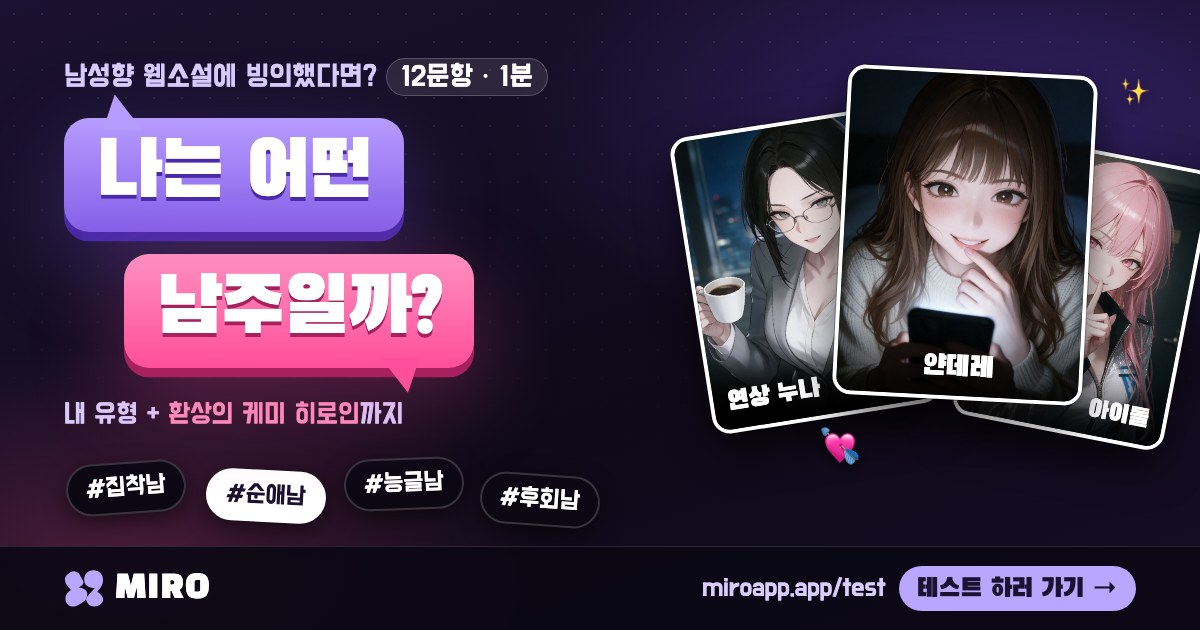
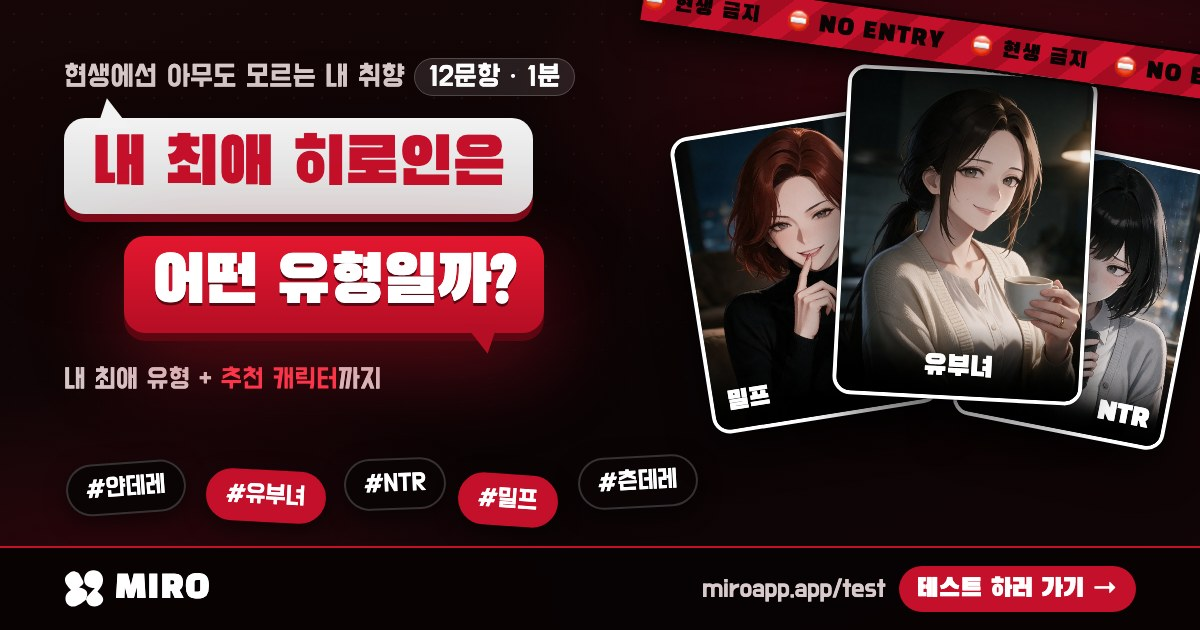
테스트 교체: 남주 유형 → '현생에선 아무도 모르는 내 취향' 최애 히로인 16유형(유부녀·밀프·NTR·NTL 추가, 결과 그림 4장), 미리보기 사진 빨간 금지 테마

diff --git a/apps/web/lib/quiz.ts b/apps/web/lib/quiz.ts
@@ -1,45 +1,50 @@
 /**
- * 성향 테스트(11/13, 홍보용) — "내가 남성향 웹소설에 빙의했다면? 나는 어떤 남주일까".
- * 위프의 BL 공수 테스트(whif.io/game/bltest)와 같은 짜임: 눈에 그려지는 상황 질문 → 나의 남주 유형 → 환상의 케미(히로인 유형)와 작품.
- * 질문 12개·유형 12종. 열두 유형이 선택지에 네 번씩 나와 어느 유형도 유리하지 않다(테스트로 지킨다).
- * 질문마다 그 상황을 그린 그림이 있다(public/quiz/q<번호>.jpg, 힉스필드에 작품 사진을 참조로 넣어 같은 그림체로).
- * 질문·설명은 작품 내용이 아니라 내 행동을 묻는다. 작품은 결과에서 추천만 한다.
+ * 취향 테스트(11/13, 홍보용) — "현생에선 아무도 모르는 내 취향, 내 최애 히로인은 어떤 유형일까?"
+ * 11/13 사용자: 남주 유형 테스트를 이걸로 바꿈 — 화면(CSS)은 그대로, 내용만 '내가 좋아하는 여자 취향'. 미로 정체성: 현생에선 말 못 할 취향을 여기서.
+ * 질문 12개·히로인 유형 16종(11/13 사용자: 유부녀·밀프·NTR·NTL 추가). 열여섯 유형이 선택지에 세 번씩 나와 어느 유형도 유리하지 않다(테스트로 지킨다).
+ * 질문마다 그 상황을 그린 그림이 있다(public/quiz/q<번호>.jpg) — 그림 속 그녀의 어떤 반응이 끌리는지 고른다.
+ * 결과 그림은 public/quiz/<유형>.jpg(유형 글자는 예전 테스트 그대로라 파일 이름이 같다). 작품은 결과에서 추천만 한다.
  */
-export const TYPES = ['j', 'n', 'z', 'h', 'c', 'd', 'g', 'm', 'k', 's', 'o', 'b'] as const
+export const TYPES = ['j', 'n', 'z', 'h', 'c', 'd', 'g', 'm', 'k', 's', 'o', 'b', 'y', 'f', 'r', 'l'] as const
 export type TypeKey = (typeof TYPES)[number]
 export type Question = { id: number; q: string; a: Array<[TypeKey, string]> }
 
 export const QUESTIONS: Question[] = [
-  { id: 1, q: '썸녀가 "오늘 좀 늦을 것 같아"라고 보냈다.', a: [['j', '"천천히 와. 기다릴게." 근처 카페에서 두 시간을 기다린다.'], ['z', '"누구랑 있는데?" 일단 위치부터 묻는다.'], ['h', '"그래." 한 글자 보내 놓고, 밤새 그 말투를 후회한다.'], ['k', '늦을 줄 알았다. 예약을 처음부터 30분 뒤로 잡아 뒀다.']] },
-  { id: 2, q: '처음 본 여자가 번호를 물어본다.', a: [['c', '"죄송합니다." 이유는 말하지 않고 지나간다.'], ['d', '"번호 말고 지금 커피는 어때요?" 그 자리에서 약속을 잡는다.'], ['m', '"길 물어보시는 거죠?" 지도 앱을 켠다.'], ['o', '"저, 저요…?" 폰을 꺼내다가 떨어뜨린다.']] },
-  { id: 3, q: '그녀가 "나 살쪘지?"라고 묻는다.', a: [['j', '"아니. 어제도 오늘도 예뻐." 진심으로 답한다.'], ['n', '"응, 볼살이. 그래서 더 귀여운데?" 볼을 찌른다.'], ['d', '"그럼 같이 운동 갈까? 지금." 운동화를 신는다.'], ['s', '"그런 거 신경 쓰지 마. 고기 먹으러 가자." 손목을 잡고 나간다.']] },
-  { id: 4, q: '그녀의 폰에 남자 이름으로 알림이 떴다.', a: [['z', '이름을 외운다. 그날 밤 그 사람 SNS를 끝까지 내려 본다.'], ['g', '"친구겠지." 믿고 넘어간다. 친구가 아니었다.'], ['m', '"택배 왔나 보다." 알림 내용을 못 봤다.'], ['b', '못 본 척한다. 대신 그날 밤 그녀의 연락을 안 받는다.']] },
-  { id: 5, q: '그녀가 헤어지자고 한다.', a: [['j', '"이유는 묻지 않을게. 그래도 기다릴게."'], ['d', '"싫어. 다시 반하게 만들 거야." 다음 날 꽃을 들고 간다.'], ['g', '"내가 다 잘못했어." 뭘 잘못했는지는 모른다.'], ['b', '"그래. 잘 지내." 붙잡지 않는다. 사흘 뒤 프로필 사진을 바꾼다.']] },
-  { id: 6, q: '술자리에서 그녀가 내 어깨에 기댄다.', a: [['n', '"어깨 대여료 비싼데." 잔을 채워 준다.'], ['c', '조용히 자세를 고쳐 앉는다. 어깨가 빠진다.'], ['s', '말없이 겉옷을 벗어 덮어 준다.'], ['o', '굳는다. 숨도 크게 못 쉬고 한 시간을 버틴다.']] },
-  { id: 7, q: '기념일을 까먹었다.', a: [['j', '그럴 리가 없다. 석 달 전부터 달력에 표시해 뒀다.'], ['h', '밤 11시에 알았다. 편의점 케이크를 들고 뛰어간다.'], ['d', '"오늘부터 다시 세자. 오늘이 1일." 당당하게 선언한다.'], ['k', '까먹은 척했다. 서프라이즈는 두 달 전부터 준비해 뒀다.']] },
-  { id: 8, q: '그녀가 다른 남자 칭찬을 한다.', a: [['z', '그 남자 이름을 기억해 둔다.'], ['c', '"그렇구나." 다음 화제로 넘어간다.'], ['g', '"좋은 사람이네. 소개해 줄까?" 진심이다.'], ['s', '"그래? 나는 어떤데." 똑바로 쳐다본다.']] },
-  { id: 9, q: '그녀가 아프다고 한다.', a: [['n', '"간호사 필요해? 출장비는 비싼데."'], ['h', '바쁘다고 답장을 미뤘다. 새벽에 달려간다.'], ['k', '증상을 듣고 맞는 약과 문 연 병원을 정리해 보낸다.'], ['o', '약국 앞에서 뭘 사야 할지 몰라 삼십 분을 서 있는다.']] },
-  { id: 10, q: '그녀가 "우리 무슨 사이야?"라고 묻는다.', a: [['n', '"글쎄. 네가 정해. 난 다 좋아."'], ['z', '"내 거." 고민 없이 답한다.'], ['c', '"…아는 사이." 귀가 빨갛다.'], ['g', '"좋은 오빠?" 스스로 관에 들어간다.']] },
-  { id: 11, q: '비 오는 날, 우산이 하나다.', a: [['m', '"편의점에서 하나 더 사 올게." 뛰어간다.'], ['s', '겉옷을 벗어 둘의 머리 위로 든다. "뛰어."'], ['k', '일기예보는 봤다. 우산을 일부러 하나만 챙겼다.'], ['b', '우산은 내가 쓴다. "같이 쓰고 싶으면 붙어."']] },
-  { id: 12, q: '그녀가 운다.', a: [['m', '"꽃가루 알레르기야?" 약국에 다녀온다.'], ['h', '울린 게 나라는 걸 뒤늦게 깨닫는다.'], ['o', '같이 운다. 이유는 모른다.'], ['b', '"울지 마. 나 나쁜 놈 되잖아." 머리에 손을 얹는다.']] },
+  { id: 1, q: '약속에 늦는 그녀. 어떤 문자가 오면 설레?', a: [['j', '"늦어. 기다리든가." 마침표까지 찍은 한 줄.'], ['z', '"늦어서 미안해… 기다리는 동안 다른 여자 안 봤지?"'], ['h', '"야 나 늦음ㅋㅋ 너 좋아하는 붕어빵 사 갈게."'], ['r', '"미안, 늦어… 선배가 데려다준다고 해서."']] },
+  { id: 2, q: '처음 본 그녀가 폰을 내민다. 끌리는 쪽은?', a: [['c', '"번호 줘요. 오늘 안 주면 내일 또 올 거예요."'], ['f', '"어머, 아들 친구 아니니? 아줌마 번호 저장해 둬."'], ['m', '뒤에서 친구 셋이 동시에 폰을 내민다. "우리 중에 누구 번호 받을래?"'], ['o', '"번호 말고… 오늘 밤 꿈에서 만날래?"']] },
+  { id: 3, q: '그녀가 거울 앞에서 "나 살쪘지?" 한다.', a: [['y', '"남편은 이런 거 물어봐도 대답도 안 해. …너는 솔직하게 말해 줄래?"'], ['n', '"흥, 너 때문에 찐 거니까 책임져!"'], ['d', '"그럼 누나랑 같이 야식 끊자. …내일부터."'], ['s', '"살찐 건 내가 아니라 네 눈이야. 일이나 해."']] },
+  { id: 4, q: '내 폰에 다른 여자 이름이 떴다. 그녀의 반응은?', a: [['z', '조용히 그 번호를 차단하고 웃는다. "이제 됐다."'], ['l', '"나도 남친 있으니까 뭐라 할 처지는 아니지. …그래도 기분 나빠."'], ['m', '그 이름이 그녀의 친구였다. 다음 날 둘이 같이 찾아온다.'], ['b', '"질투? 내가 왜. …근데 나보다 예뻐?"']] },
+  { id: 5, q: '그녀가 헤어지자고 한다. 제일 못 잊을 그녀는?', a: [['j', '"헤어지자." 뒤돌아 가다가, 세 걸음 만에 멈춘다.'], ['d', '"넌 아직 어려. 더 좋은 사람 만나." 내 눈가를 닦아 준다.'], ['g', '"헤어지자는 말은 내가 해. 넌 못 가."'], ['r', '"미안… 다른 사람이 생겼어. 근데 가끔 연락해도 돼?"']] },
+  { id: 6, q: '술자리에서 그녀가 내 어깨에 기댄다.', a: [['n', '"취한 거 아니거든! …어깨 좀 빌려 달라는 거지."'], ['c', '"나 안 취했어. 그러니까 지금 말 진심이야. 좋아해."'], ['y', '"남편한테는 친구 만난다고 했어. …조금만 이러고 있자."'], ['o', '"취한 척한 거 몰랐지? …이제 도망 못 가."']] },
+  { id: 7, q: '기념일을 깜빡했다. 그녀의 반응은?', a: [['j', '일주일째 읽씹. 마지막에 온 문자: "…기억 못 했어?"'], ['f', '"그런 걸 다 챙기려고 했어? 기특하네. 이리 와, 아줌마가 맛있는 거 해 줄게."'], ['d', '"괜찮아. 누나는 매일이 기념일이야." 선물을 내민다.'], ['k', '"맹세한 날을 잊다니… 결투를 신청한다."']] },
+  { id: 8, q: '그녀가 다른 남자 사진을 보여 주며 칭찬한다.', a: [['z', '"이 남자? 너 질투하라고 보여 준 거야. …했어? 했지?"'], ['r', '"요즘 이 사람이랑 자주 만나. …질투 나면 말해. 그만할게."'], ['g', '"잘생겼지? 이따 소개받기로 했어. 꼬우면 붙잡아 보든가."'], ['s', '"이 사람은 일을 잘해. 너도 좀 이렇게 해 봐."']] },
+  { id: 9, q: '그녀가 아프다고 연락이 왔다.', a: [['f', '"아줌마가 죽 끓여 놨어. 넌 누워서 받아먹기만 해."'], ['h', '"열 나… 어릴 때처럼 옆에 있어 줘."'], ['k', '"이 정도 열로 쓰러질 기사가 아니다…" 하고 쓰러진다.'], ['o', '"아파서 힘이 없어… 네 기운 좀 나눠 줄래?"']] },
+  { id: 10, q: '밤 놀이터, 그녀가 "우리 무슨 사이야?" 한다.', a: [['n', '"착각하지 마. 아직 아무 사이도 아니야. …아직."'], ['l', '"남친한테는 비밀인 사이. …그게 싫어?"'], ['c', '"애매한 거 싫어. 오늘부터 1일 하자."'], ['g', '"사귀자는 말은 네가 해. 선배가 먼저 해야 돼?"']] },
+  { id: 11, q: '비 오는 날, 우산이 하나다.', a: [['y', '"남편 우산이라 커. 같이 쓰자. …아무도 안 봐."'], ['s', '"우산 씌워. 내 옷 비싸."'], ['k', '망토를 벗어 내 머리 위로 든다. "그대가 젖는 건 용납 못 한다."'], ['b', '모자를 푹 눌러쓰고 우산 속으로. "사진 찍히면 안 되니까, 더 붙어."']] },
+  { id: 12, q: '그녀가 운다.', a: [['m', '한 명이 울자 셋이 동시에 나를 노려본다. "누가 울렸어?"'], ['h', '"어릴 때 네가 맨날 달래 줬잖아. 오늘도 해 줘."'], ['l', '"남친이랑 싸웠어. …근데 왜 너한테 온 건지 모르겠어."'], ['b', '"무대에선 안 울어. 너 앞에서만 우는 거야."']] },
 ]
 
 const w = (name: string, slug: string) => ({ name, slug: `official-m-${slug}` })
-/** tags = 유형을 설명하는 태그, likes = 이 유형이 끌리는 인기 태그(베이비챗·크랙 남성 인기 랭킹 키워드). chemi = 환상의 케미(히로인 유형 + 그 유형의 작품, 결과 카드의 표지), bad = 파국의 조합, compat = 히로인 유형별 궁합 지수(재미로 보는 수치 — 첫 줄이 환상의 케미, 마지막 줄이 파국의 조합), recs = 더 추천하는 작품. */
+/** title = 히로인 유형, tags = 그 히로인을 설명하는 태그, likes = 이 취향이 끌리는 인기 태그(베이비챗·크랙 남성 인기 랭킹 키워드). chemi = 대표 작품(결과의 '만나러 가기', type 은 title 과 같다), bad = 지뢰(제일 안 맞는 히로인 유형), compat = 히로인 유형별 취향 지수(재미로 보는 수치 — 첫 줄이 최애, 마지막 줄이 지뢰), recs = 더 추천하는 작품. */
 export const RESULTS: Record<TypeKey, { title: string; quote: string; tags: string[]; likes: string[]; desc: string; chemi: { type: string; name: string; slug: string }; bad: string; compat: Array<[string, number]>; recs: Array<{ name: string; slug: string }> }> = {
-  j: { title: '순애남', quote: '"기다릴게. 십 년이든."', tags: ['순애', '일편단심', '첫사랑', '기다림'], likes: ['순애', '소꿉친구', '첫사랑', '구원'], desc: '한 사람만 본다. 느리지만 방향을 바꾼 적이 한 번도 없다. 고백까지 오래 걸리는 대신 한 번 하면 끝까지 간다.', chemi: { type: '얼음공주', ...w('나한테만 차가운 회장님', 'council') }, bad: '서큐버스', compat: [['얼음공주', 96], ['소꿉친구', 88], ['츤데레', 71], ['아이돌', 44], ['서큐버스', 12]], recs: [w('나만 보는 그녀', 'only-me'), w('어렸을 때부터 짝사랑했던 그녀랑 동거', 'crush-roommate')] },
-  n: { title: '능글남', quote: '"나 좋아하지? 다 알아."', tags: ['능글', '여유', '플러팅', '눈웃음'], likes: ['유부녀', 'NTL', '연상', '불륜'], desc: '어떤 상황에서도 농담이 먼저 나온다. 가벼워 보이지만 선은 정확히 안다. 진심은 제일 늦게 꺼낸다.', chemi: { type: '츤데레', ...w('얼음 선배의 속마음이 들린다', 'inner-senior') }, bad: '얀데레', compat: [['츤데레', 95], ['연상 누나', 82], ['얼음공주', 68], ['직진녀', 47], ['얀데레', 14]], recs: [w('서하린', 'idol-girlfriend'), w('강지수', 'elevator-senior')] },
-  z: { title: '집착남', quote: '"어디야. 누구랑."', tags: ['집착', '독점욕', '질투', '내 거'], likes: ['얀데레', '집착', '감금', '피폐'], desc: '좋아하면 전부 알아야 한다. 무겁다는 말을 자주 듣지만, 한 번 잡은 손은 절대 놓지 않는다.', chemi: { type: '얀데레', ...w('나만 보는 그녀', 'only-me') }, bad: '인싸 퀸카', compat: [['얀데레', 97], ['소꿉친구', 74], ['츤데레', 59], ['아이돌', 31], ['인싸 퀸카', 9]], recs: [w('편의점 그녀는 내 시간을 외우고 있다', 'store-girl'), w('백서하', 'gumiho-partner')] },
-  h: { title: '후회남', quote: '"그때 잡았어야 했는데."', tags: ['후회', '재회', '새벽감성', '뒤늦은 깨달음'], likes: ['후회', '전여친', '이혼', '재회'], desc: '있을 때 못 하고 떠난 뒤에 달린다. 늦게 깨닫는 대신, 깨달은 뒤에는 누구보다 절박하다.', chemi: { type: '소꿉친구', ...w('어렸을 때부터 짝사랑했던 그녀랑 동거', 'crush-roommate') }, bad: '철벽녀', compat: [['소꿉친구', 94], ['연상 누나', 79], ['츤데레', 63], ['얼음공주', 40], ['철벽녀', 11]], recs: [w('동창회', 'hero-party'), w('오수아', 'apocalypse-bully')] },
-  c: { title: '철벽남', quote: '"용건만."', tags: ['철벽', '무심', '무뚝뚝', '귀는 빨개짐'], likes: ['혐관', '츤데레', '얼음공주', '동거'], desc: '말수가 적고 틈을 안 준다. 관심 없는 척은 완벽한데 귀가 먼저 배신한다. 무너지면 한 번에 무너진다.', chemi: { type: '직진녀', ...w('나비', 'stray-cat') }, bad: '얼음공주', compat: [['직진녀', 95], ['연상 누나', 77], ['소꿉친구', 66], ['츤데레', 38], ['얼음공주', 13]], recs: [w('한도은', 'han-doeun'), w('류하경', 'ryu-hagyeong')] },
-  d: { title: '직진남', quote: '"좋아해. 됐지?"', tags: ['직진', '댕댕이', '연하남', '0.5초 고백'], likes: ['누나', '여상사', '밀프', '미시'], desc: '재지 않는다. 좋으면 좋다고 하고, 거절당하면 내일 또 간다. 밀당은 할 줄 모르고 당기기만 한다.', chemi: { type: '연상 누나', ...w('강지수', 'elevator-senior') }, bad: '일진', compat: [['연상 누나', 96], ['츤데레', 85], ['얼음공주', 72], ['여상사', 49], ['일진', 15]], recs: [w('한도은', 'han-doeun'), w('별의 운명: 아르덴', 'arden')] },
-  g: { title: '호구남', quote: '"내가 다 잘못했어."', tags: ['호구', '헌신', '굴림', '참교육 예정'], likes: ['NTR', 'BSS', '참교육', '복수'], desc: '다 퍼 주고 다 당한다. 착한 게 죄라면 무기징역이다. 그래서 각성하는 순간이 제일 통쾌한 유형이다.', chemi: { type: '일진 선배', ...w('나를 애완견 취급하던 똥군기 선배들', 'pet-seniors') }, bad: '서큐버스', compat: [['일진 선배', 93], ['여상사', 81], ['츤데레', 58], ['소꿉친구', 45], ['서큐버스', 8]], recs: [w('개싸가지 년 참교육', 'brat-senior'), w('무인도 갱생 퀘스트', 'dawn-call')] },
-  m: { title: '둔감남', quote: '"오늘 무슨 날이야?"', tags: ['둔감', '하렘', '러브코미디', '본인만 모름'], likes: ['하렘', '러브코미디', '아카데미', '여사친'], desc: '모든 신호를 놓친다. 주변은 이미 전쟁 중인데 본인만 평화롭다. 하렘물 주인공의 기본 사양이다.', chemi: { type: '하렘', ...w('문자 요정들', 'fairies') }, bad: '얀데레', compat: [['하렘', 97], ['소꿉친구', 83], ['직진녀', 76], ['츤데레', 52], ['얀데레', 10]], recs: [w('마사지 동아리', 'massage-club'), w('아카데미 최약체 엑스트라', 'academy-extra')] },
-  k: { title: '계략남', quote: '"전부 계획대로야."', tags: ['계략', '두뇌전', '큰 그림', '서프라이즈'], likes: ['아카데미', '빙의', '회귀', '먼치킨'], desc: '우연은 없다. 세 수 앞을 보고 움직이고, 들켜도 그것까지 계획이다. 유일한 변수는 그녀의 한마디다.', chemi: { type: '여기사', ...w('세실리아 아스테른', 'rogue-noble') }, bad: '직진녀', compat: [['여기사', 95], ['얼음공주', 84], ['여상사', 67], ['아이돌', 41], ['직진녀', 16]], recs: [w('아카데미 최약체 엑스트라', 'academy-extra'), w('천마환생', 'cheonma-reborn')] },
-  s: { title: '상남자', quote: '"말이 많다. 따라와."', tags: ['상남자', '박력', '행동파', '무뚝뚝한 다정'], likes: ['혐관', '참교육', '헌터', '무협'], desc: '설명하지 않고 행동한다. 말은 투박한데 겉옷은 제일 먼저 벗어 준다. 고민은 고깃집에서 끝낸다.', chemi: { type: '싸가지 여상사', ...w('개싸가지 년 참교육', 'brat-senior') }, bad: '얀데레', compat: [['싸가지 여상사', 94], ['일진', 80], ['여기사', 69], ['츤데레', 55], ['얀데레', 12]], recs: [w('클랜 인 히어로', 'hunter-guild'), w('무인도 갱생 퀘스트', 'dawn-call')] },
-  o: { title: '소심남', quote: '"저, 저요…?"', tags: ['소심', '허둥지둥', '순진', '보호본능 자극'], likes: ['연상', '누나', '리드당함', '러브코미디'], desc: '마음은 큰데 입이 안 떨어진다. 허둥대는 게 다 보여서 오히려 눈길이 간다. 끌려다니는 쪽이 편하다.', chemi: { type: '서큐버스', ...w('서큐버스 대학교', 'jeong-seoyun') }, bad: '일진', compat: [['서큐버스', 96], ['연상 누나', 87], ['직진녀', 73], ['소꿉친구', 50], ['일진', 9]], recs: [w('헬스장 하렘 만들기', 'lea'), w('마사지 동아리', 'massage-club')] },
-  b: { title: '나쁜남자', quote: '"기대하지 마. 나 그런 사람 아니야."', tags: ['나쁜남자', '밀당', '여지', '차가운 다정'], likes: ['후회', '집착', '피폐', '구원'], desc: '밀어내면서 손은 놓지 않는다. 다정한 건 한순간인데 그 한순간이 오래 남는다. 본인도 그걸 안다.', chemi: { type: '아이돌', ...w('서하린', 'idol-girlfriend') }, bad: '소꿉친구', compat: [['아이돌', 93], ['얼음공주', 78], ['연상 누나', 62], ['츤데레', 46], ['소꿉친구', 14]], recs: [w('류하경', 'ryu-hagyeong'), w('나만 안 바뀐 세상', 'reverse-world')] },
+  j: { title: '얼음공주', quote: '"…용건만 말해."', tags: ['쿨데레', '철벽', '무표정', '나한테만 녹음'], likes: ['쿨데레', '혐관', '학생회장', '순애'], desc: '말수 적고 차가운데, 나한테만 한 번씩 무너지는 그 순간을 기다린다. 현생에선 "착한 사람이 좋아"라고 말하지만, 사실 얼음을 녹이는 맛을 안다.', chemi: { type: '얼음공주', ...w('나한테만 차가운 회장님', 'council') }, bad: '서큐버스', compat: [['얼음공주', 97], ['츤데레', 84], ['여기사', 70], ['아이돌', 43], ['서큐버스', 12]], recs: [w('얼음 선배의 속마음이 들린다', 'inner-senior'), w('류하경', 'ryu-hagyeong')] },
+  n: { title: '츤데레', quote: '"착각하지 마! …딱히 너 주려고 산 거 아니거든."', tags: ['츤데레', '앙탈', '볼 빨개짐', '반전 다정'], likes: ['츤데레', '혐관', '소꿉친구', '러브코미디'], desc: '말은 뾰족한데 행동은 전부 나를 향해 있어야 설렌다. 아무한테도 말 안 했지만, 째려보는 눈빛에 제일 약하다.', chemi: { type: '츤데레', ...w('얼음 선배의 속마음이 들린다', 'inner-senior') }, bad: '일진 선배', compat: [['츤데레', 96], ['소꿉친구', 83], ['얼음공주', 71], ['직진녀', 48], ['일진 선배', 15]], recs: [w('어렸을 때부터 짝사랑했던 그녀랑 동거', 'crush-roommate'), w('한도은', 'han-doeun')] },
+  z: { title: '얀데레', quote: '"나 말고 다른 사람 보면… 안 돼."', tags: ['얀데레', '집착', '독점욕', '무거운 사랑'], likes: ['얀데레', '집착', '감금', '피폐'], desc: '나만 보고, 나만 생각하고, 나 없으면 안 되는 사랑. 현생에선 "부담스러워"라고 하겠지만, 여기선 그 무게가 좋다.', chemi: { type: '얀데레', ...w('나만 보는 그녀', 'only-me') }, bad: '하렘', compat: [['얀데레', 98], ['소꿉친구', 76], ['츤데레', 60], ['연상 누나', 38], ['하렘', 8]], recs: [w('편의점 그녀는 내 시간을 외우고 있다', 'store-girl'), w('백서하', 'gumiho-partner')] },
+  h: { title: '소꿉친구', quote: '"야, 너 또 밥 안 먹었지?"', tags: ['소꿉친구', '편한 사이', '오래된 짝사랑', '첫사랑'], likes: ['소꿉친구', '순애', '동거', '첫사랑'], desc: '제일 편한 사람이 어느 날 갑자기 여자로 보이는 순간. 십 년을 옆에 있었는데 이제야 심장이 뛴다.', chemi: { type: '소꿉친구', ...w('어렸을 때부터 짝사랑했던 그녀랑 동거', 'crush-roommate') }, bad: '싸가지 여상사', compat: [['소꿉친구', 95], ['츤데레', 82], ['얀데레', 64], ['아이돌', 41], ['싸가지 여상사', 13]], recs: [w('나만 보는 그녀', 'only-me'), w('동창회', 'hero-party')] },
+  c: { title: '직진녀', quote: '"좋아해요. 대답은 내일 들을게요."', tags: ['직진', '댕댕미', '적극적', '고백 선공'], likes: ['직진', '연하', '러브코미디', '순애'], desc: '재지 않고 먼저 다가와 주는 사람. 현생에선 내가 먼저 못 하니까, 여기선 그녀가 먼저 손을 잡는다.', chemi: { type: '직진녀', ...w('나비', 'stray-cat') }, bad: '얼음공주', compat: [['직진녀', 96], ['연상 누나', 80], ['소꿉친구', 67], ['츤데레', 42], ['얼음공주', 14]], recs: [w('한도은', 'han-doeun'), w('헬스장 하렘 만들기', 'lea')] },
+  d: { title: '연상 누나', quote: '"누나가 다 해 줄게."', tags: ['연상', '누나', '여유', '어른의 다정'], likes: ['연상', '누나', '밀프', '유부녀'], desc: '어리광을 부려도 다 받아 주는 여유. 현생에선 듬직한 척하지만, 사실은 누군가에게 기대고 싶다.', chemi: { type: '연상 누나', ...w('강지수', 'elevator-senior') }, bad: '하렘', compat: [['연상 누나', 97], ['서큐버스', 81], ['직진녀', 69], ['츤데레', 45], ['하렘', 11]], recs: [w('마사지 동아리', 'massage-club'), w('한도은', 'han-doeun')] },
+  g: { title: '일진 선배', quote: '"야, 선배가 부르면 와야지."', tags: ['일진', '기 센 선배', '막말', '의외의 순정'], likes: ['일진', '혐관', '참교육', 'NTR'], desc: '함부로 대하는데 이상하게 끌린다. 그 센 척이 나한테만 풀리는 날을 아무도 모르게 기다린다.', chemi: { type: '일진 선배', ...w('나를 애완견 취급하던 똥군기 선배들', 'pet-seniors') }, bad: '소꿉친구', compat: [['일진 선배', 94], ['싸가지 여상사', 85], ['얀데레', 62], ['얼음공주', 44], ['소꿉친구', 10]], recs: [w('개싸가지 년 참교육', 'brat-senior'), w('오수아', 'apocalypse-bully')] },
+  m: { title: '하렘', quote: '"우리 중에 누가 제일 좋아?"', tags: ['하렘', '러브코미디', '다 좋아', '선택 불가'], likes: ['하렘', '러브코미디', '아카데미', '여사친'], desc: '한 명만 고르라니 너무 잔인하다. 각자 다른 매력이 한꺼번에 다가오는 그 북적임이 좋다.', chemi: { type: '하렘', ...w('문자 요정들', 'fairies') }, bad: '얀데레', compat: [['하렘', 97], ['아이돌', 84], ['직진녀', 73], ['소꿉친구', 50], ['얀데레', 9]], recs: [w('마사지 동아리', 'massage-club'), w('아카데미 최약체 엑스트라', 'academy-extra')] },
+  k: { title: '여기사', quote: '"그대를 지키는 것이 나의 맹세다."', tags: ['여기사', '충성', '강하지만 서툶', '판타지'], likes: ['판타지', '여기사', '회귀', '먼치킨'], desc: '칼은 누구보다 잘 쓰는데 연애엔 서툰 사람. 강한 그녀가 내 앞에서만 허둥대는 게 좋다.', chemi: { type: '여기사', ...w('세실리아 아스테른', 'rogue-noble') }, bad: '서큐버스', compat: [['여기사', 95], ['얼음공주', 83], ['연상 누나', 66], ['하렘', 40], ['서큐버스', 14]], recs: [w('별의 운명: 아르덴', 'arden'), w('천마환생', 'cheonma-reborn')] },
+  s: { title: '싸가지 여상사', quote: '"이게 보고서야? 다시 해 와."', tags: ['여상사', '싸가지', '커리어우먼', '갭모에'], likes: ['여상사', '참교육', '혐관', '오피스'], desc: '회사에선 날 갈구는데 둘만 있을 땐 다른 얼굴. 현생에선 절대 말 못 할 취향이지만, 여기선 솔직해도 된다.', chemi: { type: '싸가지 여상사', ...w('개싸가지 년 참교육', 'brat-senior') }, bad: '소꿉친구', compat: [['싸가지 여상사', 94], ['일진 선배', 86], ['얼음공주', 70], ['연상 누나', 52], ['소꿉친구', 12]], recs: [w('강지수', 'elevator-senior'), w('나를 애완견 취급하던 똥군기 선배들', 'pet-seniors')] },
+  o: { title: '서큐버스', quote: '"오늘 밤엔 안 재울 거야."', tags: ['서큐버스', '유혹', '능숙함', '리드'], likes: ['서큐버스', '판타지', '리드당함', '연상'], desc: '먼저 유혹하고 먼저 이끄는 사람. 현생에선 아무도 모르는 취향, 여기선 그녀에게 끌려가도 된다.', chemi: { type: '서큐버스', ...w('서큐버스 대학교', 'jeong-seoyun') }, bad: '여기사', compat: [['서큐버스', 96], ['연상 누나', 85], ['직진녀', 71], ['아이돌', 47], ['여기사', 11]], recs: [w('헬스장 하렘 만들기', 'lea'), w('마사지 동아리', 'massage-club')] },
+  b: { title: '아이돌', quote: '"무대 위 말고, 너 앞에서만 진짜야."', tags: ['아이돌', '비밀 연애', '팬과 스타', '나만 아는 얼굴'], likes: ['아이돌', '비밀연애', '연예인', '순애'], desc: '모두가 좋아하는 사람이 나만 아는 얼굴을 보여 준다. 그 비밀을 둘만 안다는 게 좋다.', chemi: { type: '아이돌', ...w('서하린', 'idol-girlfriend') }, bad: '일진 선배', compat: [['아이돌', 95], ['하렘', 80], ['츤데레', 65], ['얼음공주', 44], ['일진 선배', 13]], recs: [w('나만 안 바뀐 세상', 'reverse-world'), w('류하경', 'ryu-hagyeong')] },
+  y: { title: '유부녀', quote: '"남편은 몰라. …몰라도 돼."', tags: ['유부녀', '금단', '어른의 사정', '반지'], likes: ['유부녀', '불륜', 'NTL', '연상'], desc: '손가락의 반지가 오히려 마음을 흔든다. 현생에선 입 밖에도 못 낼 취향이지만, 여기선 아무도 모른다.', chemi: { type: '유부녀', ...w('마님은 욕구불만입니다.', 'frustrated-madam') }, bad: '소꿉친구', compat: [['유부녀', 97], ['밀프', 88], ['NTL', 76], ['연상 누나', 61], ['소꿉친구', 9]], recs: [w('아버님 아이를 갖고 싶어요', 'baby-contract'), w('새엄마의 친구들', 'stepmom-friends')] },
+  f: { title: '밀프', quote: '"아줌마한테 이러면 안 되지~?"', tags: ['밀프', '친구 엄마', '성숙미', '여유'], likes: ['밀프', '미시', '유부녀', '연상'], desc: '나이에서 나오는 여유와 성숙함에 끌린다. 친구한텐 절대 말 못 하지만, 친구 엄마가 제일 예뻐 보였던 적이 있다.', chemi: { type: '밀프', ...w('새엄마의 친구들', 'stepmom-friends') }, bad: '아이돌', compat: [['밀프', 96], ['유부녀', 87], ['연상 누나', 79], ['서큐버스', 58], ['아이돌', 12]], recs: [w('모녀덮밥 만들어먹기', 'mother-daughter'), w('한유진', 'han-yujin')] },
+  r: { title: 'NTR', quote: '"미안… 근데 그 사람이 자꾸 생각나."', tags: ['NTR', '뺏김', '질투', '배덕감'], likes: ['NTR', 'BSS', '질투', '피폐'], desc: '내 사람이 흔들리는 그 아찔함. 현생에선 상상도 하기 싫다고 하겠지만, 이야기 속에선 그 감정이 제일 진하다.', chemi: { type: 'NTR', ...w('동창회', 'hero-party') }, bad: '얀데레', compat: [['NTR', 95], ['NTL', 84], ['유부녀', 70], ['소꿉친구', 46], ['얀데레', 13]], recs: [w('한유진', 'han-yujin'), w('원격오나홀', 'others-gf')] },
+  l: { title: 'NTL', quote: '"남친한텐 비밀이야."', tags: ['NTL', '남친 있는 그녀', '비밀', '배덕감'], likes: ['NTL', '불륜', '유부녀', '비밀연애'], desc: '이미 누군가의 사람인데, 나를 볼 때만 표정이 달라진다. 아무도 모르는 둘만의 비밀이 좋다.', chemi: { type: 'NTL', ...w('원격오나홀', 'others-gf') }, bad: '하렘', compat: [['NTL', 96], ['유부녀', 85], ['NTR', 72], ['츤데레', 49], ['하렘', 11]], recs: [w('벽 너머 여사친', 'wall-friend'), w('비밀 앱으로 동네 먹기', 'moon-app')] },
 }
+
 
 /** 고른 유형 순서대로 받아 가장 많이 고른 유형을 돌려준다. 동점이면 더 나중에 고른 유형. */
 export function resultKey(picks: TypeKey[]): TypeKey {

diff --git a/apps/web/app/test/[key]/page.tsx b/apps/web/app/test/[key]/page.tsx
@@ -22,7 +22,7 @@ export async function generateMetadata({ params }: Params): Promise<Metadata> {
   const { key } = await params
   const r = await load(key)
   if (!r) return {}
-  const title = `내 남주 유형은 [${r.title}]`
+  const title = `내 최애 히로인은 [${r.title}]`
   const images = [r.cover]
   return { description: r.desc, openGraph: { title, description: r.desc, url: `/test/${key}`, images }, twitter: { card: 'summary_large_image', title, description: r.desc, images } }
 }
@@ -36,7 +36,7 @@ export default async function TestResult({ params, searchParams }: Params) {
   const scores = scored && scored[0]![1] === scored.find(c => c[0] === key)?.[1] ? scored.filter(c => c[1] > 0) : null
   const r = await load(key)
   if (!r) notFound()
-  const share = `https://twitter.com/intent/tweet?${new URLSearchParams({ text: `내 남주 유형은 [${r.title}]입니다!\n${r.quote}\n\n내 유형은 뭘까? [내가 남성향 웹소설에 빙의했다면?] 테스트 하러 가기\n#미로_남주테스트 #미로`, url: `${SITE}/test?utm_source=test` })}`
+  const share = `https://twitter.com/intent/tweet?${new URLSearchParams({ text: `내 최애 히로인은 [${r.title}]!\n${r.quote}\n\n현생에선 아무도 모르는 내 취향, 너는? 테스트 하러 가기\n#미로_취향테스트 #미로`, url: `${SITE}/test?utm_source=test` })}`
   return (
     <main style={{ minHeight: '100dvh', display: 'grid', alignContent: 'center', padding: 'var(--space-6) var(--gutter)' }}>
       {/* 11/13 태블릿 폭(768)까지 넓힌다 — 넓으면 카드와 설명이 좌우로, 좁으면 위아래로. */}
@@ -49,7 +49,7 @@ export default async function TestResult({ params, searchParams }: Params) {
           <div style={{ position: 'absolute', inset: 0, background: 'linear-gradient(180deg, rgba(8,6,14,0) 35%, rgba(8,6,14,.94) 88%)' }} />
           <span style={{ position: 'absolute', top: 14, left: 14, display: 'flex', alignItems: 'center', gap: 6, padding: '6px 12px 6px 8px', borderRadius: 999, background: 'rgba(12,10,20,.6)', fontWeight: 'var(--weight-bold)', fontSize: 'var(--font-caption)' }}><LogoMark size={20} />MIRO</span>
           <div style={{ position: 'absolute', left: 0, right: 0, bottom: 0, padding: 'var(--space-5) var(--space-4)', textAlign: 'center' }}>
-            <p className="t-caption" style={{ margin: '0 0 6px' }}>당신의 남주 유형</p>
+            <p className="t-caption" style={{ margin: '0 0 6px' }}>현생에선 아무도 모르는 내 최애 히로인</p>
             <h1 className="t-hero" style={{ margin: 0 }}>{r.title}</h1>
             <p style={{ margin: '10px 0 0', color: 'var(--color-text-secondary)', wordBreak: 'keep-all' }}>{r.quote}</p>
           </div>
@@ -59,18 +59,18 @@ export default async function TestResult({ params, searchParams }: Params) {
           {r.tags.map(t => <li key={t} style={chip}>#{t.replace(/ /g, '_')}</li>)}
         </ul>
         <p style={{ margin: 0, wordBreak: 'keep-all' }}>{r.desc}</p>
-        {/* 이 유형이 끌리는 인기 태그 */}
+        {/* 이 취향이 끌리는 인기 태그 */}
         <div style={{ display: 'grid', gap: 'var(--space-2)' }}>
-          <span className="t-caption">{r.title}이 끌리는 태그</span>
+          <span className="t-caption">이 취향이 끌리는 태그</span>
           <ul style={{ display: 'flex', flexWrap: 'wrap', gap: 6, margin: 0, padding: 0, listStyle: 'none' }}>
             {r.likes.map(t => <li key={t} style={{ ...chip, color: 'var(--color-text-primary)' }}>#{t}</li>)}
           </ul>
         </div>
-        {/* 유형 점수 보드 — 내가 12문항에서 유형별로 실제로 고른 횟수. */}
+        {/* 취향 점수 보드 — 내가 12문항에서 유형별로 실제로 고른 횟수. */}
         {scores && (
           <div style={{ display: 'grid', gap: 10, padding: 'var(--space-4)', borderRadius: 'var(--radius-lg)', background: 'var(--color-surface-2)' }}>
             <div style={{ display: 'flex', justifyContent: 'space-between', alignItems: 'baseline' }}>
-              <span style={{ fontWeight: 'var(--weight-bold)' }}>내 유형 점수 보드</span>
+              <span style={{ fontWeight: 'var(--weight-bold)' }}>내 취향 점수 보드</span>
               <span className="t-caption">12문항 중 고른 횟수</span>
             </div>
             {scores.map(([t, n]) => (
@@ -84,10 +84,10 @@ export default async function TestResult({ params, searchParams }: Params) {
             ))}
           </div>
         )}
-        {/* 히로인 유형별 궁합 지수 — 막대 차트. 첫 줄이 환상의 케미, 마지막 줄이 파국의 조합. 재미로 보는 수치다. */}
+        {/* 히로인 유형별 취향 지수 — 막대 차트. 첫 줄이 최애, 마지막 줄이 지뢰. 재미로 보는 수치다. */}
         <div style={{ display: 'grid', gap: 10, padding: 'var(--space-4)', borderRadius: 'var(--radius-lg)', background: 'var(--color-surface-2)' }}>
           <div style={{ display: 'flex', justifyContent: 'space-between', alignItems: 'baseline' }}>
-            <span style={{ fontWeight: 'var(--weight-bold)' }}>히로인 유형별 궁합 지수</span>
+            <span style={{ fontWeight: 'var(--weight-bold)' }}>히로인 유형별 취향 지수</span>
             <span className="t-caption">재미로 보는 수치</span>
           </div>
           {r.compat.map(([type, score], i) => {
@@ -104,16 +104,16 @@ export default async function TestResult({ params, searchParams }: Params) {
             )
           })}
           <div style={{ display: 'flex', gap: 'var(--space-4)', flexWrap: 'wrap' }} className="t-caption">
-            <span><i style={{ display: 'inline-block', width: 8, height: 8, borderRadius: 999, background: 'var(--color-accent)', marginRight: 6 }} />환상의 케미 · {r.chemi.type}</span>
-            <span><i style={{ display: 'inline-block', width: 8, height: 8, borderRadius: 999, background: 'var(--color-danger)', marginRight: 6 }} />파국의 조합 · {r.bad}</span>
+            <span><i style={{ display: 'inline-block', width: 8, height: 8, borderRadius: 999, background: 'var(--color-accent)', marginRight: 6 }} />최애 · {r.chemi.type}</span>
+            <span><i style={{ display: 'inline-block', width: 8, height: 8, borderRadius: 999, background: 'var(--color-danger)', marginRight: 6 }} />지뢰 · {r.bad}</span>
           </div>
         </div>
-        <ButtonLink href={`/character/${r.chemi.slug}`} variant="primary" size="lg" full style={{ whiteSpace: 'normal', textAlign: 'center', wordBreak: 'keep-all' }}>나와 환상의 케미, {r.chemi.type} 만나러 가기</ButtonLink>
+        <ButtonLink href={`/character/${r.chemi.slug}`} variant="primary" size="lg" full style={{ whiteSpace: 'normal', textAlign: 'center', wordBreak: 'keep-all' }}>내 최애 {r.chemi.type}, 만나러 가기</ButtonLink>
         </div>
        </div>
         {/* 추천 작품 — 세로가 조금 더 긴(4:5) 표지 카드 그리드. */}
         <div style={{ display: 'grid', gap: 'var(--space-3)' }}>
-          <p className="t-caption" style={{ margin: 0 }}>{r.title}에게 추천하는 작품</p>
+          <p className="t-caption" style={{ margin: 0 }}>{r.title} 취향에게 추천하는 작품</p>
           <div style={{ display: 'grid', gridTemplateColumns: 'repeat(auto-fill, minmax(140px, 1fr))', gap: 'var(--space-3)' }}>
             {r.recs.map(w => (
               <a key={w.slug} href={`/character/${w.slug}`} style={{ position: 'relative', display: 'block', aspectRatio: '4 / 5', borderRadius: 'var(--radius-lg)', overflow: 'hidden', background: 'var(--color-surface-2)', color: 'var(--color-text-primary)' }}>

diff --git a/apps/web/lib/__tests__/quiz.test.ts b/apps/web/lib/__tests__/quiz.test.ts
@@ -1,14 +1,14 @@
 import { expect, test } from 'vitest'
 import { QUESTIONS, RESULTS, TYPES, decodeScores, encodeScores, resultKey } from '../quiz'
 
-test('열두 유형이 선택지에 네 번씩 나온다', () => {
+test('모든 유형이 선택지에 같은 횟수(48칸 ÷ 유형 수)만큼 나온다', () => {
   expect(QUESTIONS).toHaveLength(12)
   const seen = QUESTIONS.flatMap(q => q.a.map(([t]) => t))
-  for (const t of TYPES) expect(seen.filter(x => x === t)).toHaveLength(4)
+  for (const t of TYPES) expect(seen.filter(x => x === t)).toHaveLength(QUESTIONS.length * 4 / TYPES.length)
   expect(QUESTIONS.every(q => new Set(q.a.map(([t]) => t)).size === 4)).toBe(true)
   expect(Object.keys(RESULTS).sort()).toEqual([...TYPES].sort())
   expect(Object.values(RESULTS).every(r => r.tags.length && r.likes.length && r.recs.length)).toBeTruthy()
-  // 궁합 표: 첫 줄 = 환상의 케미, 마지막 줄 = 파국의 조합, 점수는 내림차순
+  // 취향 지수 표: 첫 줄 = 최애, 마지막 줄 = 지뢰, 점수는 내림차순
   for (const r of Object.values(RESULTS)) {
     expect(r.compat[0]![0]).toBe(r.chemi.type)
     expect(r.compat.at(-1)![0]).toBe(r.bad)
@@ -26,7 +26,7 @@ test('점수 글자열: 고른 횟수를 싣고, 틀린 글자열은 버린다',
   const s = encodeScores([...picks])
   expect(decodeScores(s)![0]).toEqual(['j', 3])
   expect(decodeScores(s)!.reduce((n, c) => n + c[1], 0)).toBe(12)
-  expect(decodeScores('zzzzzzzzzzzz')).toBeNull()   // 합이 12가 아님
+  expect(decodeScores('zzzzzzzzzzzzzzzz')).toBeNull()   // 합이 12가 아님
   expect(decodeScores('123')).toBeNull()
   expect(decodeScores(undefined)).toBeNull()
 })

diff --git a/apps/web/app/test/page.tsx b/apps/web/app/test/page.tsx
@@ -4,13 +4,13 @@ import { LogoMark } from '@/components/ui/logo'
 import { HomeViewBeacon } from '@/app/(main)/home/view-beacon'
 import { Quiz } from './quiz'
 
-const TITLE = '내가 남성향 웹소설에 빙의했다면? 나는 어떤 남주일까'
-const DESC = '12가지 상황으로 알아보는 내 남주 유형 테스트 · 1분 · 로그인 없음'
-// 11/13 링크 미리보기 사진(1200×630) — 말풍선 제목·유형 태그·케미 히로인 카드(public/quiz/og.jpg).
+const TITLE = '현생에선 아무도 모르는 내 취향, 내 최애 히로인은 어떤 유형일까?'
+const DESC = '12가지 상황으로 알아보는 내 최애 히로인 유형 테스트 · 1분 · 로그인 없음'
+// 11/13 링크 미리보기 사진(1200×630) — 말풍선 제목·히로인 유형 태그·히로인 카드(public/quiz/og.jpg).
 const IMAGES = [{ url: '/quiz/og.jpg', width: 1200, height: 630, alt: TITLE }]
 export const metadata: Metadata = { description: DESC, openGraph: { title: TITLE, description: DESC, url: '/test', images: IMAGES }, twitter: { card: 'summary_large_image', title: TITLE, description: DESC, images: IMAGES } }
 
-/** 성향 테스트(11/13, 홍보용) — 로그인 없이 누구나. 방문은 홈 방문과 같은 기록으로 남는다(utm_source 로 채널 구분). */
+/** 취향 테스트(11/13, 홍보용) — 로그인 없이 누구나. 방문은 홈 방문과 같은 기록으로 남는다(utm_source 로 채널 구분). */
 export default async function TestPage() {
   const user = await currentUser()
   return (

diff --git a/apps/web/app/test/quiz.tsx b/apps/web/app/test/quiz.tsx
@@ -15,8 +15,8 @@ export function Quiz() {
 
   if (!deck) return (
     <div style={{ display: 'grid', gap: 'var(--space-5)', textAlign: 'center' }}>
-      <h1 className="t-display" style={{ margin: 0, wordBreak: 'keep-all' }}>내가 남성향 웹소설에 빙의했다면?<br />나는 어떤 남주일까</h1>
-      <p className="t-caption" style={{ margin: 0 }}>12가지 상황으로 알아보는 내 남주 유형 · 1분 · 로그인 없음</p>
+      <h1 className="t-display" style={{ margin: 0, wordBreak: 'keep-all' }}>현생에선 아무도 모르는 내 취향<br />내 최애 히로인은 어떤 유형일까?</h1>
+      <p className="t-caption" style={{ margin: 0 }}>12가지 상황으로 알아보는 내 최애 히로인 유형 · 1분 · 로그인 없음</p>
       <Button variant="primary" size="lg" full onClick={() => setDeck(shuffle(QUESTIONS).map(q => ({ ...q, a: shuffle(q.a) })))}>테스트 시작하기</Button>
     </div>
   )
